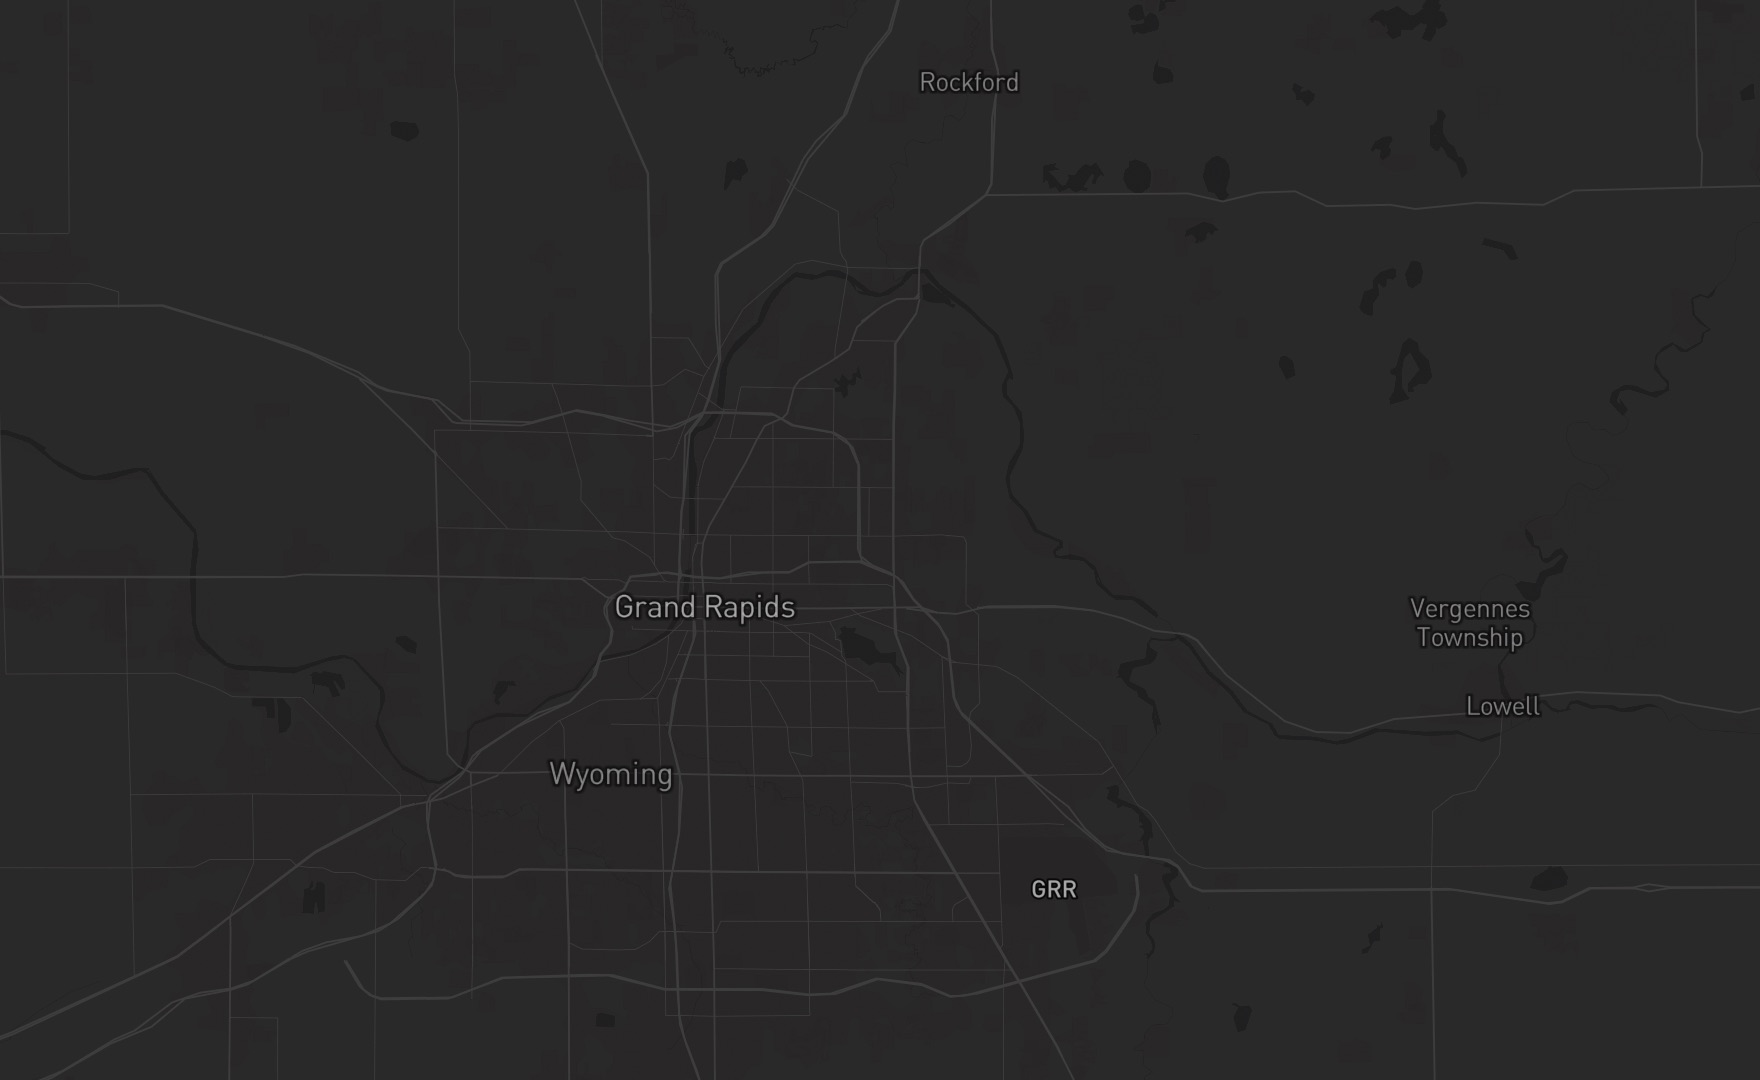
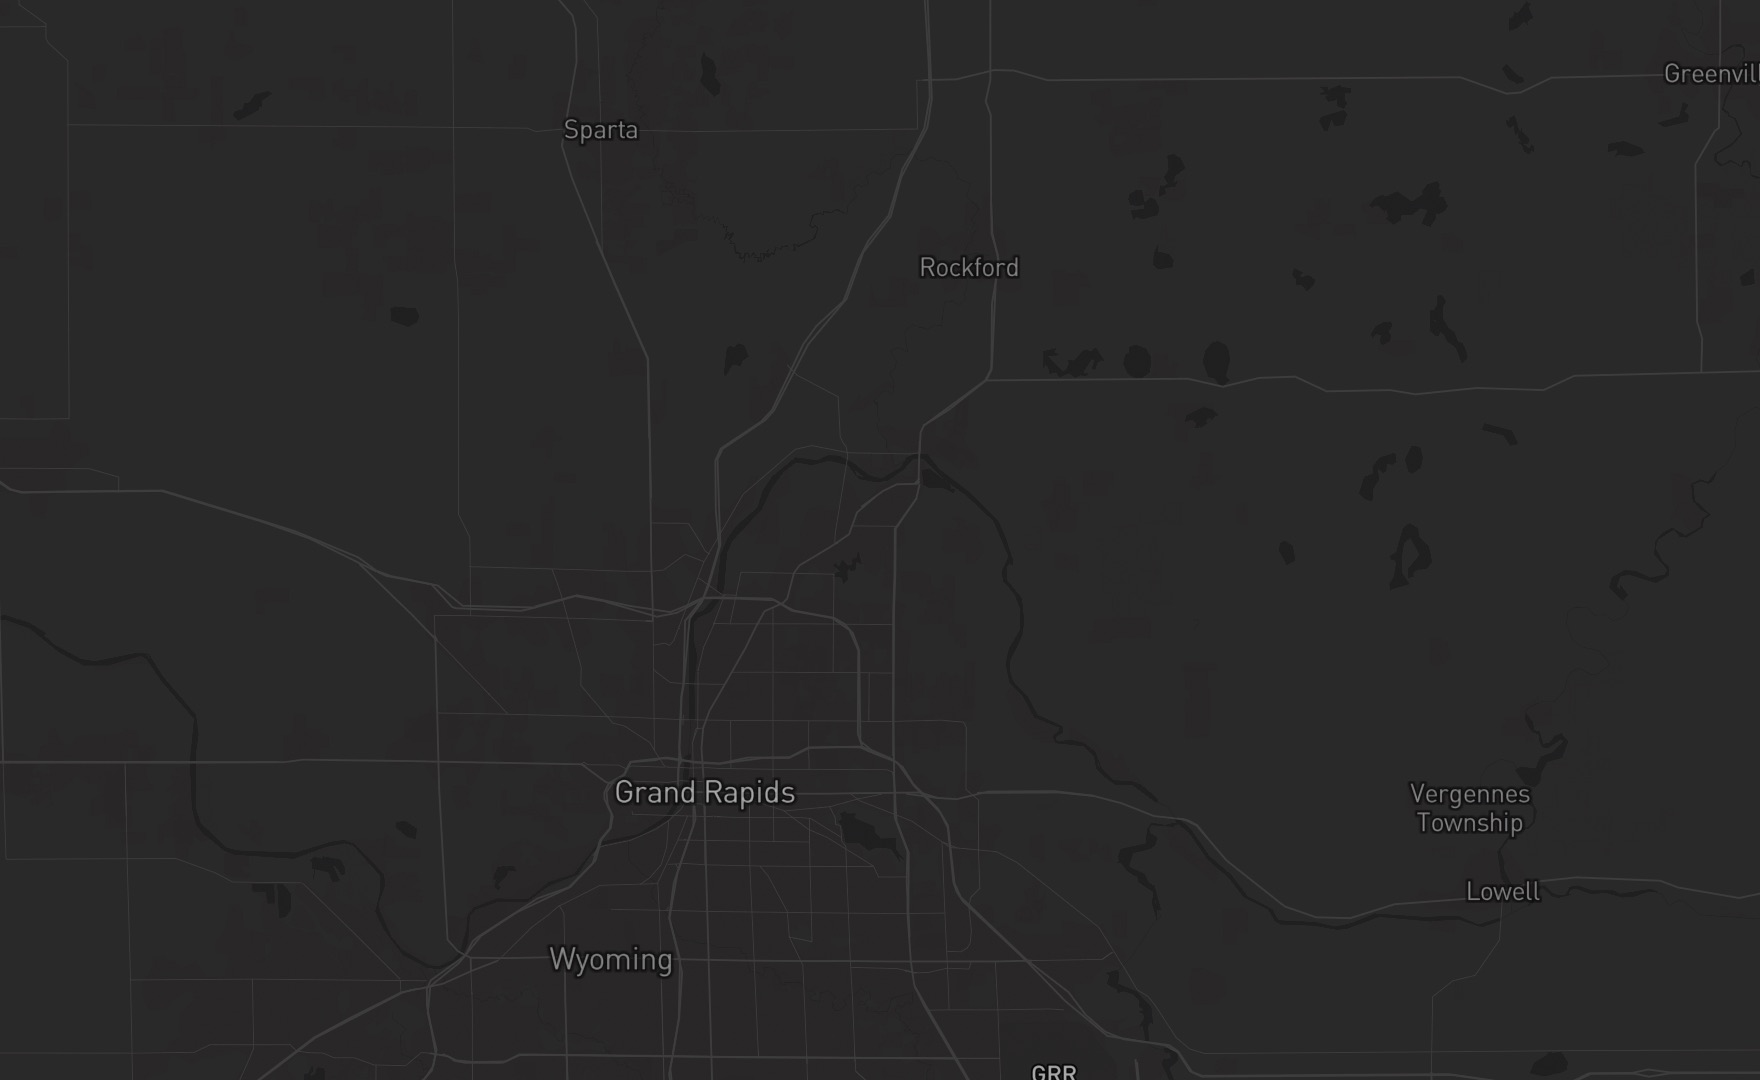
feat(ministries): Life Groups becomes a signature; the core 12 churches come in
Life Groups moves in house as a signature ministry and no other church's small
groups are listed. Belonging is the one thing a church cannot hand off.

Adds 8 partner churches, the ones that are both charismatic-leaning and keeping
a current calendar, filling youth, kids, midweek, young adults, men and worship
nights. Their area label is the high-school district rather than the city,
because that is the unit a family actually lives in.

Four of the original twelve did not survive checking and are held back:
- Calvary Assembly of God had two records for one church
- Wyoming Church of God shares Pennellwood's website and calendar feed, so it
  is almost certainly the same congregation twice
- Bethel Pentecostal's recorded website is a Romanian church in Detroit
- City Life Church's recorded website is a denominational news article
Those need a human before they go anywhere near the page.

diff --git a/src/data/ministries.ts b/src/data/ministries.ts
@@ -132,7 +132,7 @@ export function entriesInFamily(familySlug: string): Entry[] {
 }
 
 // In-house first, then the ones we vouch for hardest, then the rest.
-const TIER_ORDER = ["signature", "core", "partner", "ministry-share", "joint", "recommended", "listed"];
+const TIER_ORDER = ["signature", "core", "partner", "partner-church", "ministry-share", "joint", "recommended", "listed"];
 
 export function sortEntries(list: Entry[]): Entry[] {
 	return [...list].sort((a, b) => {
@@ -205,6 +205,7 @@ export const TIER_LABEL: Record<string, string> = {
 	signature: "Signature",
 	core: "Ours",
 	partner: "Partner",
+	"partner-church": "Partner church",
 	"ministry-share": "Ministry Share",
 	joint: "Joint Ministry",
 	recommended: "We send people here",
